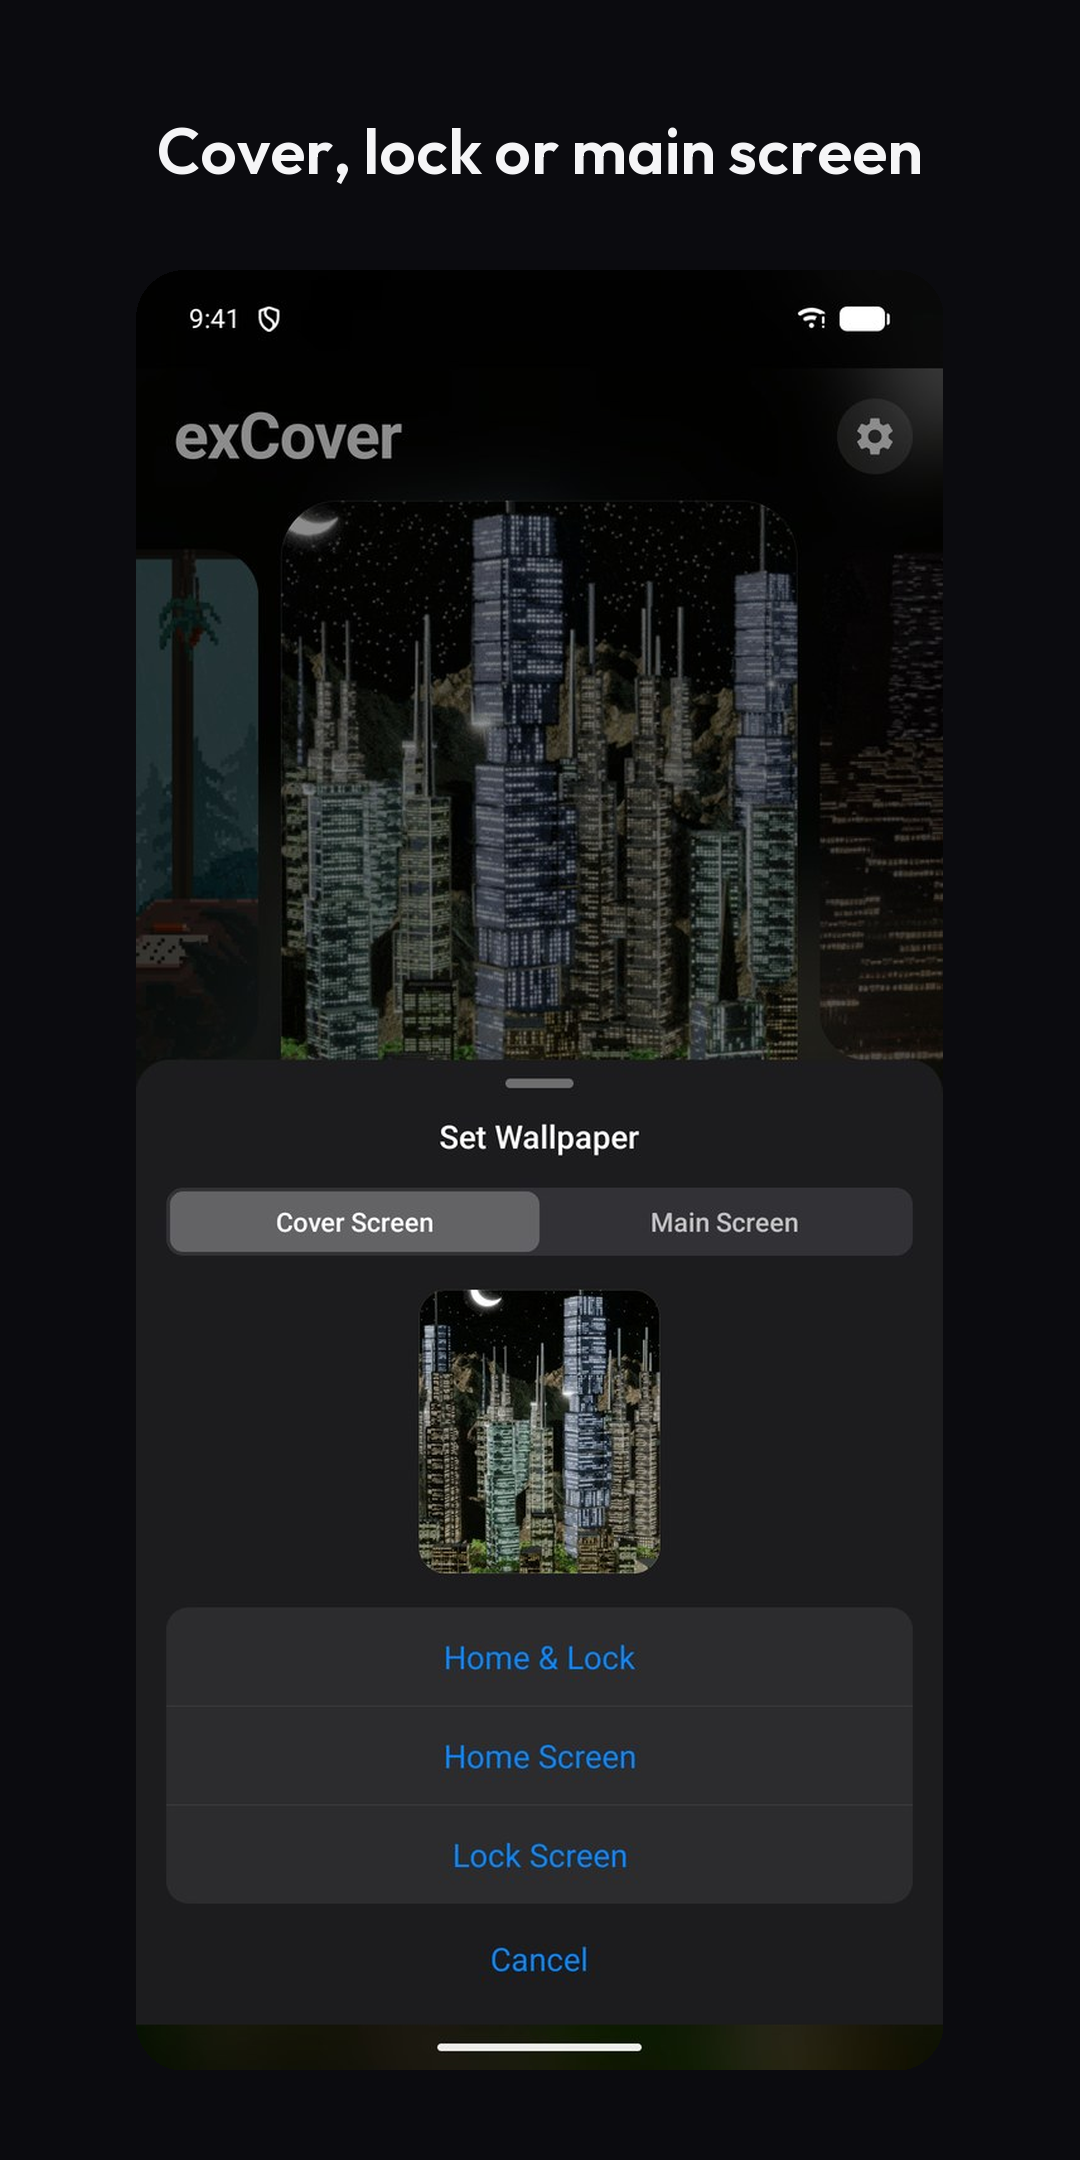
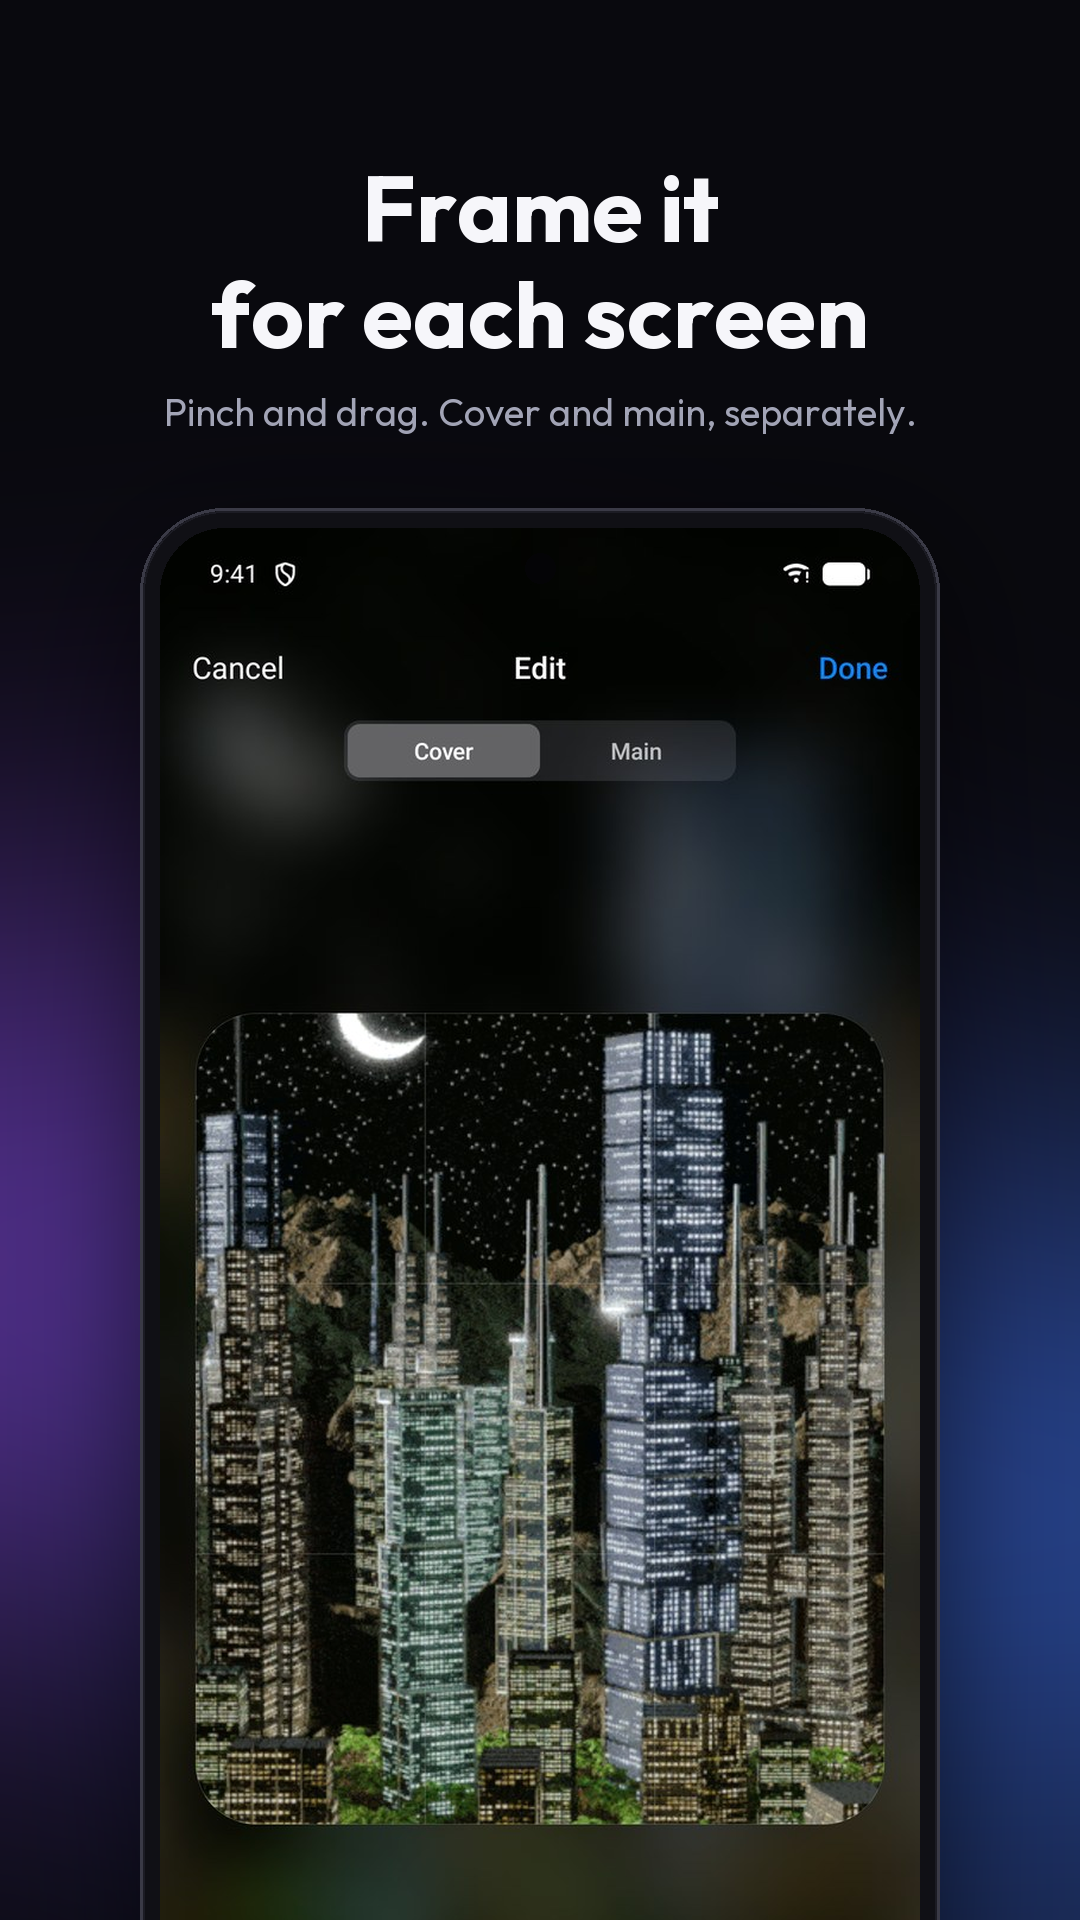
Move to com.ranaco.excover for Google Play, with new store graphics
The Play listing uses the package com.ranaco.excover, so the app ID
follows. The Java package and class names stay as they are. The store
screenshots are redrawn with device frames and captions, and the
privacy contact now matches the developer profile.

diff --git a/tools/play_assets.py b/tools/play_assets.py
@@ -1,88 +1,158 @@
-"""Builds the Google Play store graphics for exCover from the screenshots in docs/.
+"""Builds exCover's Google Play graphics: seven phone screenshots, the feature graphic and the icon.
 
-Play wants screenshots no more than twice as tall as they are wide, so each one is placed on a
-1080x2160 canvas under a short caption. Also writes the 512px icon and the 1024x500 feature
-graphic. Output goes to play/.
+Each screenshot is a 1080x1920 card: a dark background lit by a soft glow in exCover's icon
+colours, a headline and one supporting line, and the screen itself in a drawn Razr. Cover shots
+sit in the folded phone; app shots sit in the open phone, rising from the bottom edge.
+Output goes to play/.
 """
 from pathlib import Path
 
-from PIL import Image, ImageDraw, ImageFont
+from PIL import Image, ImageChops, ImageDraw, ImageFilter, ImageFont
 
 ROOT = Path(__file__).resolve().parent.parent
 OUT = ROOT / "play"
 FONT = str(ROOT / "app/src/main/res/font/outfit.ttf")
-BG = (11, 11, 15)
-TEXT = (245, 245, 247)
-MUTED = (160, 160, 170)
 
+W, H = 1080, 1920
+BG = (9, 9, 14)
+TEXT = (246, 246, 250)
+MUTED = (164, 166, 184)
+PINK, VIOLET, BLUE = (255, 92, 170), (150, 82, 255), (66, 120, 255)
+
+# (kind, source, headline, supporting line, glow colours)
 SHOTS = [
-    ("screenshot-main.jpg", "Your GIFs, one swipe away"),
-    ("screenshot-giphy.jpg", "Search GIPHY right inside"),
-    ("screenshot-edit.jpg", "Frame it for each screen"),
-    ("screenshot-set.jpg", "Cover, lock or main screen"),
-    ("screenshot-themes.jpg", "Clock themes in Motorola's picker"),
-    ("screenshot-aod.jpg", "Your GIF on the always-on display"),
+    ("cover", "cover-home.png", "Animated GIFs\non your cover", "No root, no computer. Pick a GIF, close the phone.", (VIOLET, PINK)),
+    ("main", "docs/screenshot-main.jpg", "Your GIFs,\none swipe away", "Recent ones and favourites, always close.", (BLUE, VIOLET)),
+    ("main", "docs/screenshot-giphy.jpg", "Search GIPHY\nright inside", "Or pick from Photos, or paste any link.", (PINK, BLUE)),
+    ("main", "docs/screenshot-edit.jpg", "Frame it\nfor each screen", "Pinch and drag. Cover and main, separately.", (VIOLET, BLUE)),
+    ("main", "docs/screenshot-set.jpg", "Every screen,\nits own GIF", "Cover home and lock, main home and lock.", (BLUE, PINK)),
+    ("main", "docs/screenshot-themes.jpg", "Clock themes in\nMotorola's picker", "Five styles, in your font and colour.", (PINK, VIOLET)),
+    ("main", "docs/screenshot-aod.jpg", "Your GIF on the\nalways-on display", "Six looks, most of them made to save battery.", (VIOLET, PINK)),
 ]
 
 
-def font(size, weight=600):
+def font(size, weight):
     f = ImageFont.truetype(FONT, size)
     try:
         f.set_variation_by_axes([weight])
     except (OSError, AttributeError):
-        pass  # not a variable font
+        pass
     return f
 
 
-def rounded(im, radius):
-    mask = Image.new("L", im.size, 0)
-    ImageDraw.Draw(mask).rounded_rectangle((0, 0, *im.size), radius, fill=255)
-    out = Image.new("RGBA", im.size)
-    out.paste(im, (0, 0), mask)
-    return out
+def glow(size, colours, centre_y):
+    """Two soft colour clouds behind the phone, like light spilling from its screen."""
+    layer = Image.new("RGB", size, BG)
+    d = ImageDraw.Draw(layer)
+    w, h = size
+    a, b = colours
+    d.ellipse((w * -0.15, centre_y - h * 0.22, w * 0.75, centre_y + h * 0.18), fill=a)
+    d.ellipse((w * 0.3, centre_y - h * 0.08, w * 1.2, centre_y + h * 0.3), fill=b)
+    layer = layer.filter(ImageFilter.GaussianBlur(min(w, h) * 0.2))
+    return Image.blend(Image.new("RGB", size, BG), layer, 0.55)
 
 
-def centred_text(draw, y, text, f, fill, width):
-    w = draw.textlength(text, font=f)
-    draw.text(((width - w) / 2, y), text, font=f, fill=fill)
+def rounded_mask(size, radius):
+    m = Image.new("L", size, 0)
+    ImageDraw.Draw(m).rounded_rectangle((0, 0, size[0] - 1, size[1] - 1), radius, fill=255)
+    return m
 
 
-def screenshot(name, caption, index):
-    canvas = Image.new("RGB", (1080, 2160), BG)
-    draw = ImageDraw.Draw(canvas)
-    centred_text(draw, 110, caption, font(64), TEXT, 1080)
-    shot = Image.open(ROOT / "docs" / name).convert("RGB")
-    height = 1800
-    width = round(shot.width * height / shot.height)
-    if width > 960:
-        width = 960
-        height = round(shot.height * width / shot.width)
-    shot = rounded(shot.resize((width, height), Image.LANCZOS), 48)
-    canvas.paste(shot, ((1080 - width) // 2, 2160 - height - 90), shot)
+def shadow(canvas, box, radius, spread=60, opacity=150):
+    x0, y0, x1, y1 = box
+    sh = Image.new("L", canvas.size, 0)
+    ImageDraw.Draw(sh).rounded_rectangle((x0, y0 + 30, x1, y1 + 30), radius, fill=opacity)
+    sh = sh.filter(ImageFilter.GaussianBlur(spread))
+    canvas.paste(Image.new("RGB", canvas.size, (0, 0, 0)), (0, 0), sh)
+
+
+def device(canvas, screen, x, y, screen_w, screen_radius, bezel, body_radius, cameras=None, punch=False):
+    """A phone body with the screen inset; returns its bottom edge."""
+    screen = screen.convert("RGB")
+    screen_h = round(screen.height * screen_w / screen.width)
+    screen = screen.resize((screen_w, screen_h), Image.LANCZOS)
+    bw, bh = screen_w + 2 * bezel, screen_h + 2 * bezel
+    shadow(canvas, (x, y, x + bw, y + bh), body_radius)
+    body = Image.new("RGB", (bw, bh), (16, 16, 21))
+    bd = ImageDraw.Draw(body)
+    bd.rounded_rectangle((0, 0, bw - 1, bh - 1), body_radius, outline=(58, 58, 70), width=3)  # the metal edge
+    bd.rounded_rectangle((3, 3, bw - 4, bh - 4), body_radius - 3, outline=(28, 28, 36), width=2)
+    canvas.paste(body, (x, y), rounded_mask((bw, bh), body_radius))
+    canvas.paste(screen, (x + bezel, y + bezel), rounded_mask((screen_w, screen_h), screen_radius))
+    d = ImageDraw.Draw(canvas)
+    if punch:  # the main screen's front camera
+        cx, cy, r = x + bw // 2, y + bezel + 40, 15
+        d.ellipse((cx - r, cy - r, cx + r, cy + r), fill=(4, 4, 6))
+    if cameras:  # the cover's two lenses, set into the screen's bottom-right
+        r = cameras
+        for i in range(2):
+            cx = x + bezel + screen_w - r * 1.45 - i * r * 2.55
+            cy = y + bezel + screen_h - r * 1.45
+            d.ellipse((cx - r, cy - r, cx + r, cy + r), fill=(10, 10, 13), outline=(70, 70, 82), width=4)
+            d.ellipse((cx - r * 0.55, cy - r * 0.55, cx + r * 0.55, cy + r * 0.55), fill=(22, 26, 40))
+            d.ellipse((cx - r * 0.2, cy - r * 0.42, cx + r * 0.05, cy - r * 0.17), fill=(120, 130, 170))  # glint
+    return y + bh
+
+
+def headline(canvas, title, line):
+    d = ImageDraw.Draw(canvas)
+    f = font(92, 700)
+    y = 150
+    for part in title.split("\n"):
+        w = d.textlength(part, font=f)
+        d.text(((W - w) / 2, y), part, font=f, fill=TEXT)
+        y += 106
+    small = font(38, 400)
+    w = d.textlength(line, font=small)
+    if w > W - 140:  # wrap a long supporting line onto two
+        words, first = line.split(), ""
+        for word in words:
+            if d.textlength((first + " " + word).strip(), font=small) > W - 140:
+                break
+            first = (first + " " + word).strip()
+        rest = line[len(first):].strip()
+        for part in (first, rest):
+            d.text(((W - d.textlength(part, font=small)) / 2, y + 26), part, font=small, fill=MUTED)
+            y += 50
+        return y + 26
+    d.text(((W - w) / 2, y + 26), line, font=small, fill=MUTED)
+    return y + 76
+
+
+def shot(kind, source, title, line, colours, index):
+    canvas = glow((W, H), colours, H * 0.68)
+    top = headline(canvas, title, line) + 70
+    screen = Image.open(ROOT / source)
+    if kind == "cover":
+        sw = 860
+        body_h = round(screen.height * sw / screen.width) + 56
+        y = top + (H - top - body_h) // 2 - 20  # centred in the space under the words
+        device(canvas, screen, (W - sw - 56) // 2, y, sw, 54, 28, 82, cameras=48)
+    else:
+        sw = 760
+        device(canvas, screen, (W - sw - 40) // 2, top, sw, 64, 20, 84, punch=True)  # runs off the bottom
     canvas.save(OUT / f"screenshot-{index}.png")
 
 
 def feature_graphic():
-    canvas = Image.new("RGB", (1024, 500), BG)
-    draw = ImageDraw.Draw(canvas)
-    logo = Image.open(ROOT / "docs/logo.png").convert("RGBA").resize((132, 132), Image.LANCZOS)
-    canvas.paste(logo, (64, 104), logo)
-    draw.text((64, 262), "exCover", font=font(68, 700), fill=TEXT)
-    draw.text((66, 350), "Animated GIFs on your", font=font(30, 400), fill=MUTED)
-    draw.text((66, 388), "Razr's cover screen", font=font(30, 400), fill=MUTED)
-    gif = Image.open(ROOT / "docs/cover-showcase.gif")
-    gif.seek(min(24, gif.n_frames - 1))
-    frame = gif.convert("RGB")
-    width = 520
-    frame = rounded(frame.resize((width, round(frame.height * width / frame.width)), Image.LANCZOS), 28)
-    canvas.paste(frame, (1024 - width - 48, (500 - frame.height) // 2), frame)
+    fw, fh = 1024, 500
+    canvas = glow((fw, fh), (VIOLET, PINK), fh * 0.55)
+    d = ImageDraw.Draw(canvas)
+    logo = Image.open(ROOT / "docs/logo.png").convert("RGBA").resize((112, 112), Image.LANCZOS)
+    canvas.paste(logo, (70, 96), logo)
+    d.text((70, 232), "exCover", font=font(78, 700), fill=TEXT)
+    d.text((72, 330), "Animated GIFs for", font=font(32, 400), fill=MUTED)
+    d.text((72, 372), "your Razr's cover screen", font=font(32, 400), fill=MUTED)
+    device(canvas, Image.open(ROOT / "cover-home.png"), 600, 58, 330, 26, 14, 40, cameras=19)
     canvas.save(OUT / "feature-graphic.png")
 
 
 def main():
     OUT.mkdir(exist_ok=True)
-    for i, (name, caption) in enumerate(SHOTS, 1):
-        screenshot(name, caption, i)
+    for old in OUT.glob("screenshot-*.png"):
+        old.unlink()
+    for i, (kind, source, title, line, colours) in enumerate(SHOTS, 1):
+        shot(kind, source, title, line, colours, i)
     Image.open(ROOT / "docs/logo.png").convert("RGBA").save(OUT / "icon-512.png")
     feature_graphic()
     print("wrote", sorted(p.name for p in OUT.iterdir()))

diff --git a/play/LISTING.md b/play/LISTING.md
@@ -7,14 +7,14 @@ rebuilds them).
 
 | Field | Value |
 |---|---|
-| App name (30) | `exCover: Cover Screen GIFs` |
-| Package | `com.ranaco.razrcoverwallpaper` |
+| App name (30) | `exCover` |
+| Package | `com.ranaco.excover` |
 | Default language | English (United States) |
 | App or game | App |
 | Free or paid | Free |
 | Category | Personalization |
 | Tags | Wallpapers, Live wallpapers, Personalization |
-| Contact email | rana@codedecoders.io |
+| Contact email | ranasatyamraj@gmail.com |
 | Website | https://github.com/Ranaco/exCover |
 | Privacy policy | https://github.com/Ranaco/exCover/blob/main/PRIVACY.md |
 
@@ -59,7 +59,7 @@ exCover is an independent app and isn't made or endorsed by Motorola. GIFs from 
 |---|---|
 | App icon 512×512 | `icon-512.png` |
 | Feature graphic 1024×500 | `feature-graphic.png` |
-| Phone screenshots (1080×2160) | `screenshot-1.png` … `screenshot-6.png` |
+| Phone screenshots (1080×1920) | `screenshot-1.png` … `screenshot-7.png` |
 
 ## Store settings
 

diff --git a/README.md b/README.md
@@ -221,7 +221,7 @@ cover home and lock slots directly. You shouldn't need it, but it's handy for te
 ```powershell
 .\tools\build-helper.ps1
 adb push .\tools\set-cover.jar /data/local/tmp/set-cover.jar
-adb shell "CLASSPATH=/data/local/tmp/set-cover.jar app_process /system/bin SetCoverWallpaper set home com.ranaco.razrcoverwallpaper com.ranaco.razrcoverwallpaper.GifWallpaperService"
+adb shell "CLASSPATH=/data/local/tmp/set-cover.jar app_process /system/bin SetCoverWallpaper set home com.ranaco.excover com.ranaco.razrcoverwallpaper.GifWallpaperService"
 ```
 
 </details>

diff --git a/PRIVACY.md b/PRIVACY.md
@@ -38,4 +38,4 @@ If this policy changes, the new version will be posted here with a new date.
 
 ## Contact
 
-Questions about privacy: rana@codedecoders.io
+Questions about privacy: ranasatyamraj@gmail.com
